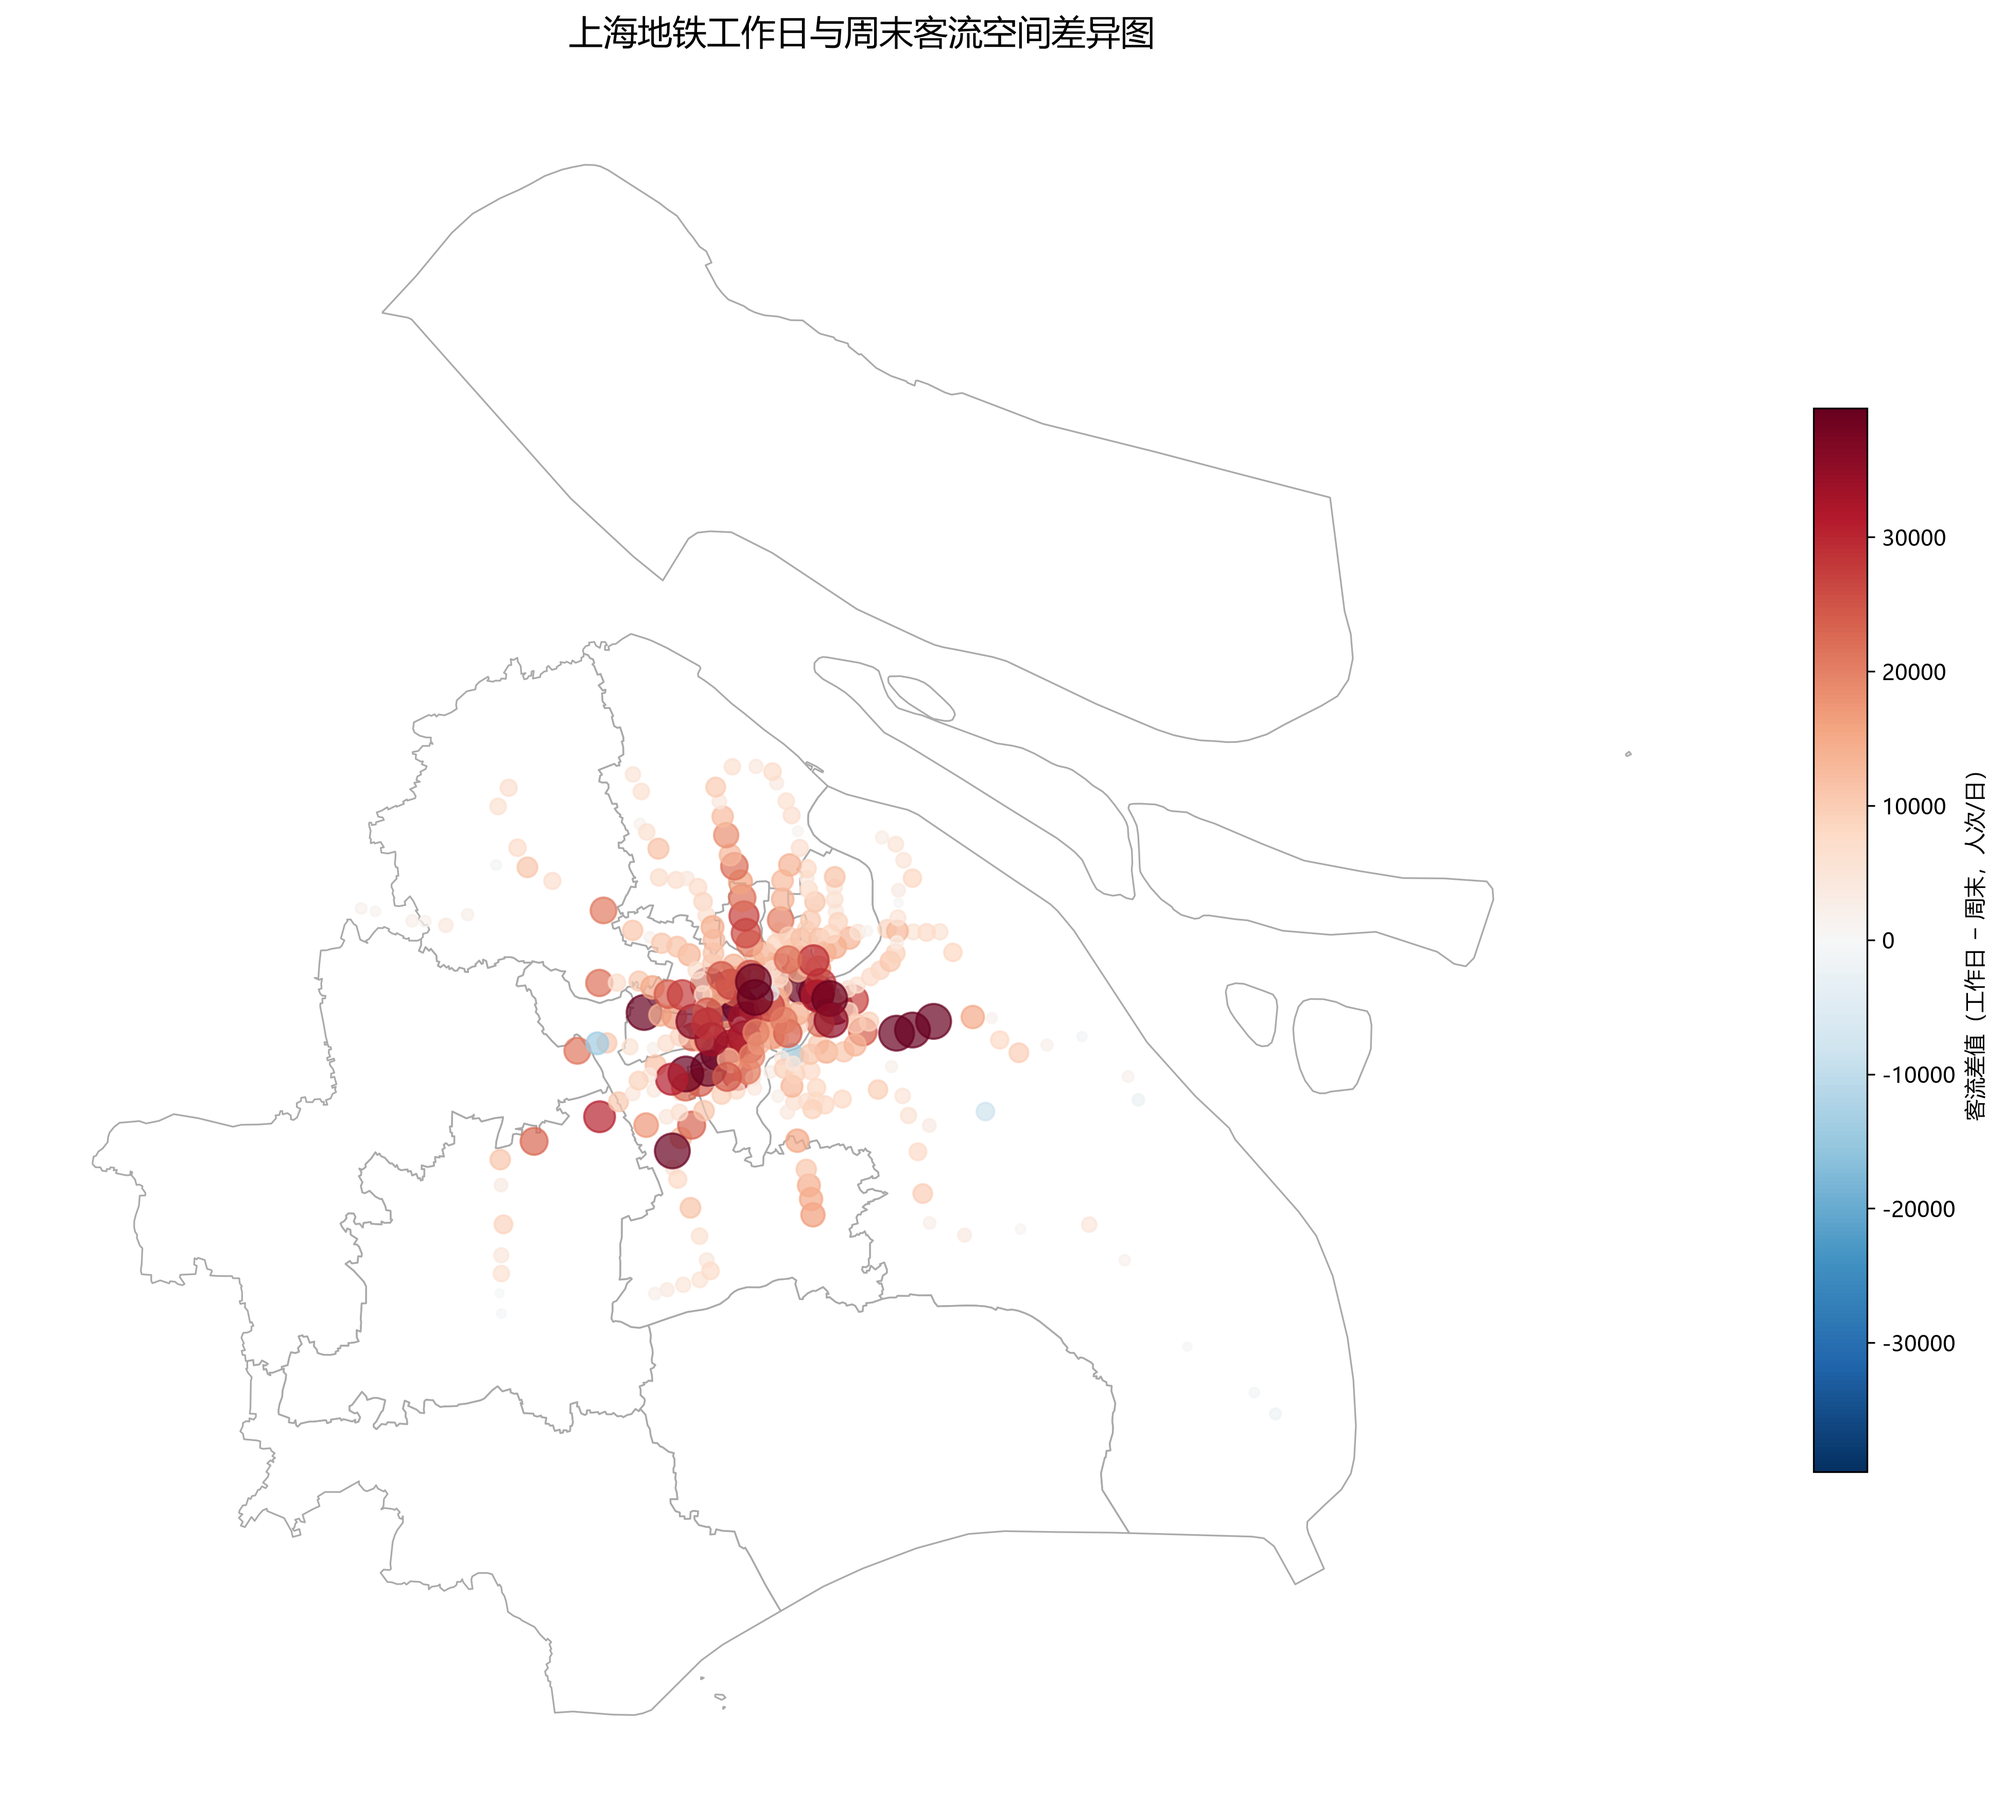
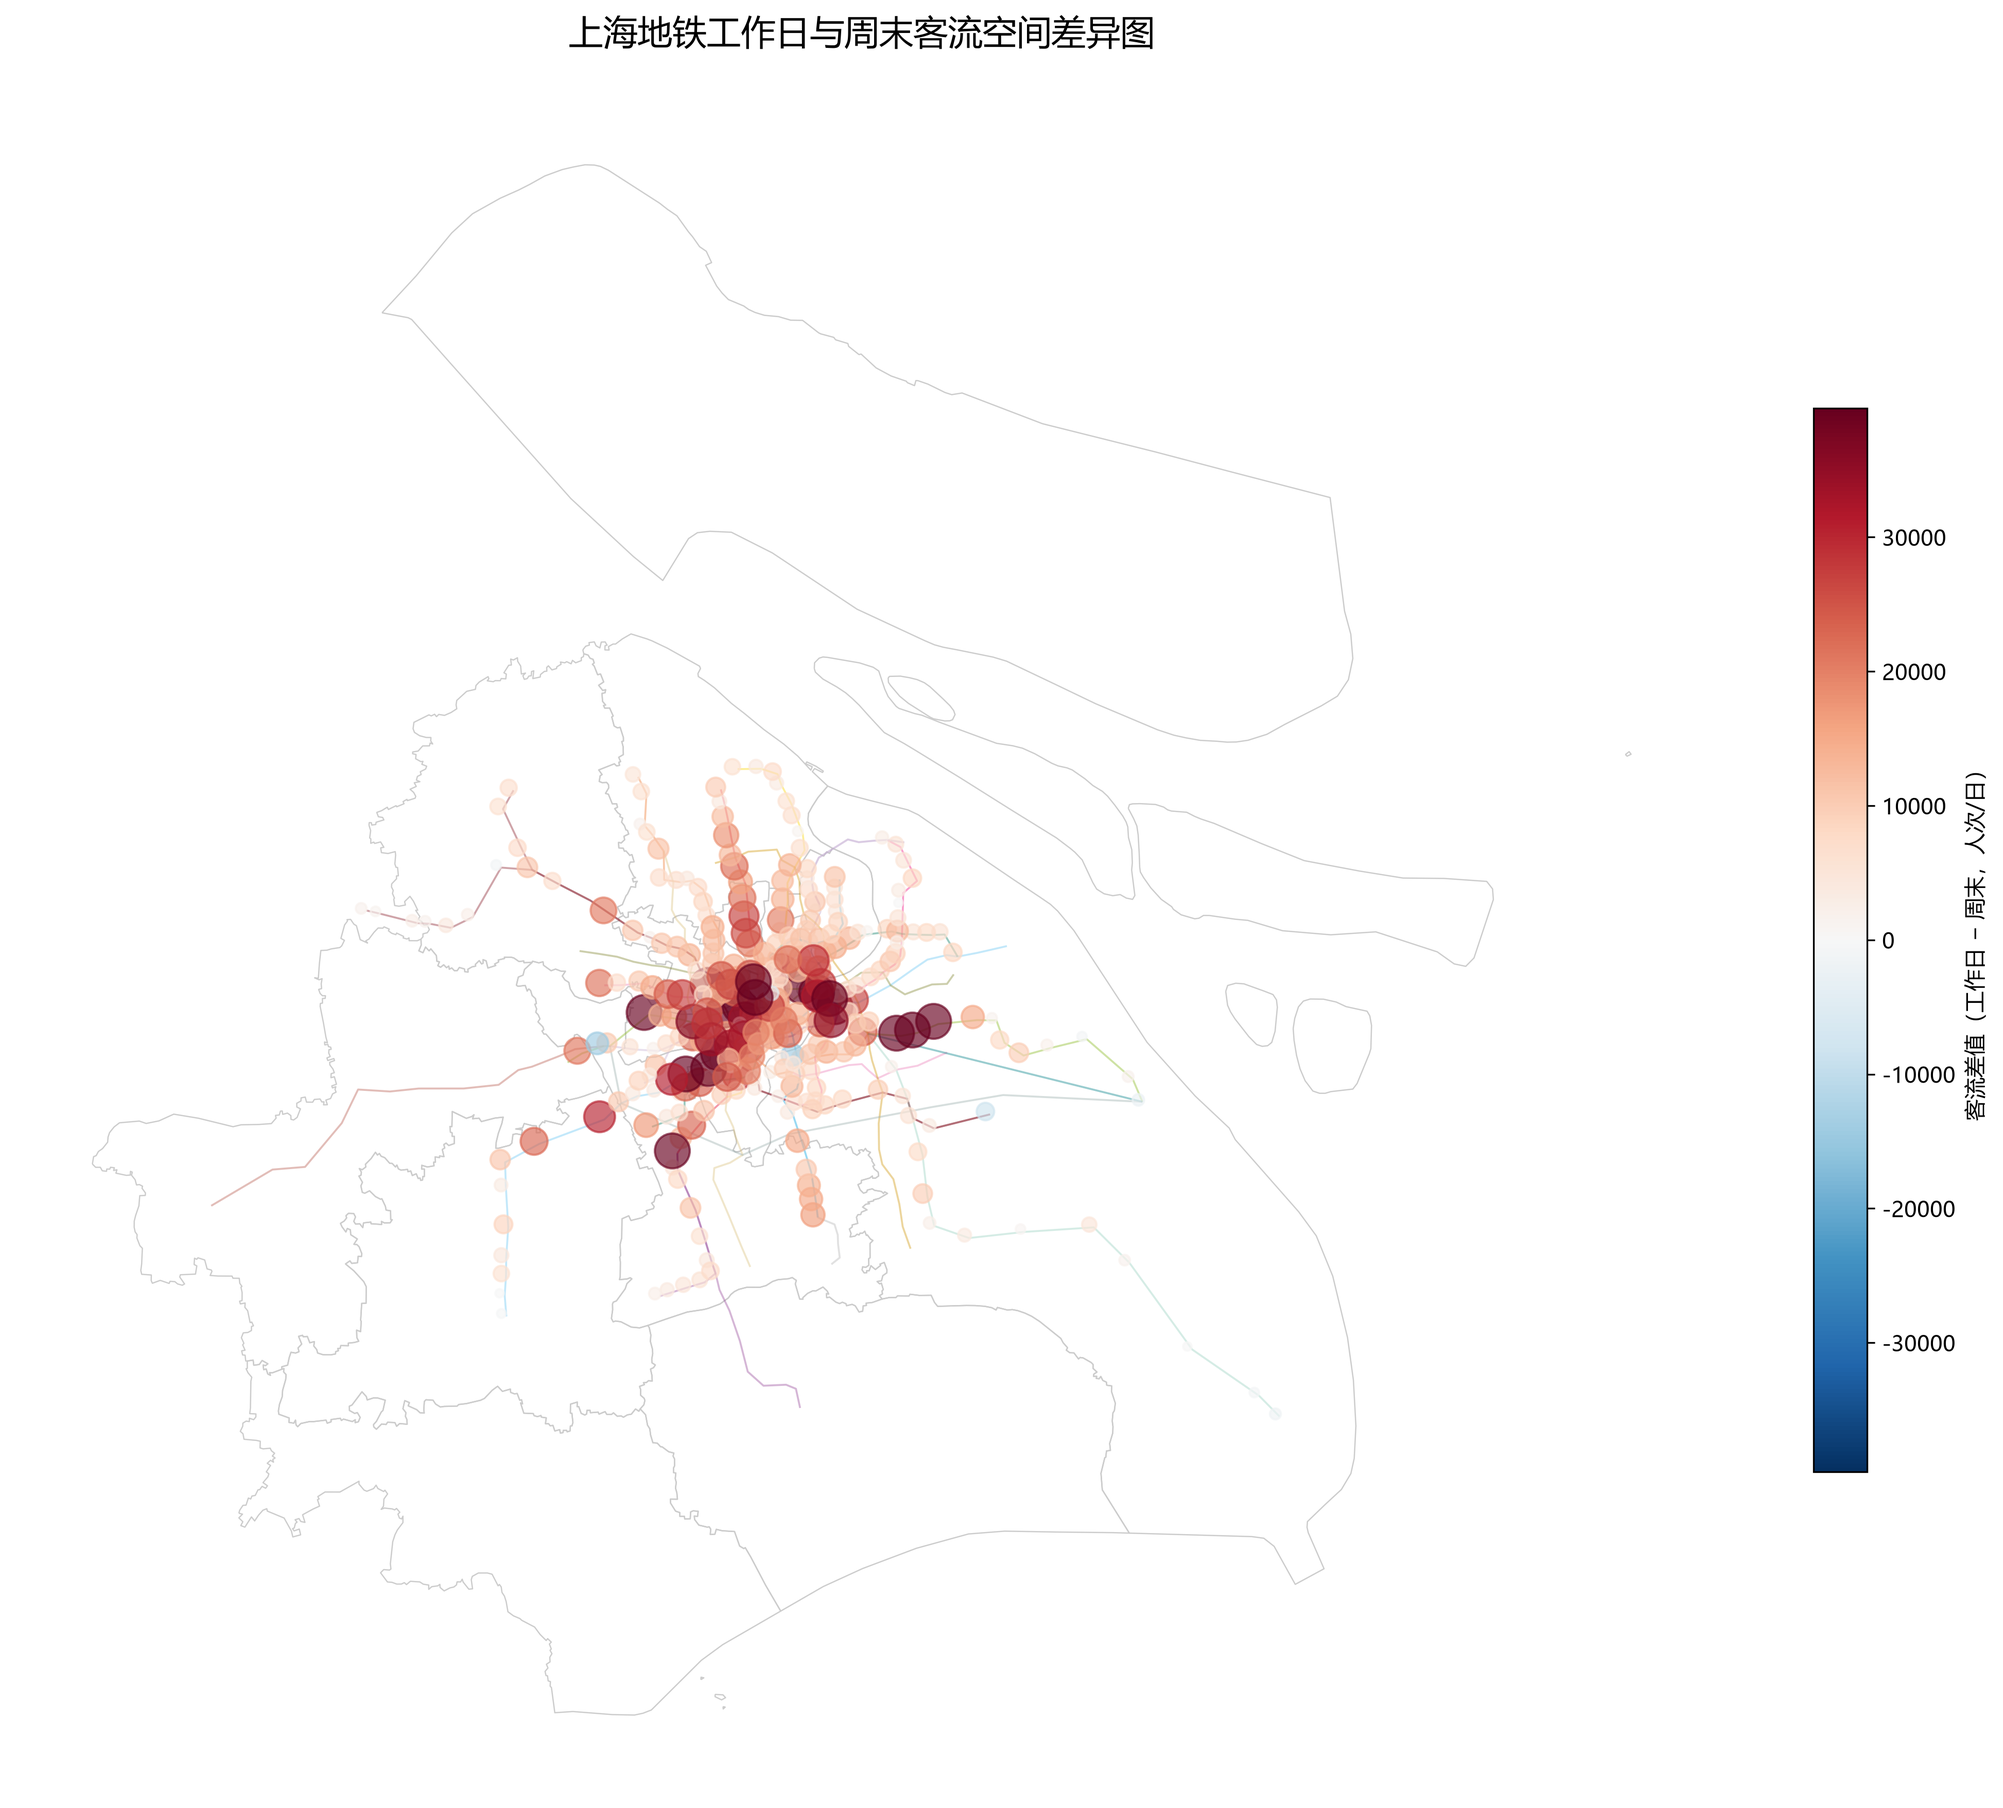
分工3: 所有空间图叠加上海地铁线路网络，图3-1缩小站点避免重叠

diff --git a/code/分工3/04_全时段客流热力图.py b/code/分工3/04_全时段客流热力图.py
@@ -33,29 +33,40 @@ station_geo = gpd.read_file(geo_path).to_crs(epsg=3857)
 dist_path = PROJECT_ROOT / "分工3_空间可视化" / "空间数据" / "shanghai_districts.geojson"
 districts = gpd.read_file(dist_path).to_crs(epsg=3857)
 
+# 读取上海地铁线路
+metro_path = PROJECT_ROOT / "分工3_空间可视化" / "空间数据" / "shanghai_metro_lines.geojson"
+metro_lines = gpd.read_file(metro_path).to_crs(epsg=3857)
+
 # 分位数映射点大小（避免魔法数字，极值裁剪到95分位）
 flow = station_geo["全天总客流"].values
 p95 = np.percentile(flow, 95)
 size_clipped = np.clip(flow, None, p95)
-markersize = 5 + (size_clipped / p95) * 80  # 5~85 范围，避免重叠糊在一起
+markersize = 2 + (size_clipped / p95) * 33  # 2~35范围，缩小避免重叠
 
 fig, ax = plt.subplots(figsize=(14, 12), dpi=300)
 ax.set_facecolor("white")
 
 # 绘制行政区边界（简洁底图）
-districts.boundary.plot(ax=ax, color="#aaaaaa", linewidth=0.8, zorder=1)
+districts.boundary.plot(ax=ax, color="#cccccc", linewidth=0.6, zorder=1)
+
+# 绘制地铁线路（官方颜色，细线，半透明）
+for _, line in metro_lines.iterrows():
+    line_color = line["color"] if line["color"] else "#999999"
+    gpd.GeoSeries([line.geometry]).plot(ax=ax, color=line_color, linewidth=1.0, alpha=0.45, zorder=2)
 
 station_geo.plot(
     ax=ax, column="全天总客流", cmap=CMAP_FLOW,
-    markersize=markersize, alpha=0.6,
+    markersize=markersize, alpha=0.55,
     legend=True, legend_kwds={"shrink": 0.6, "label": "全天客流量（人次）"},
-    zorder=2
+    zorder=3
 )
 
-# 标注TOP10站点
-top10 = station_geo.sort_values("全天总客流", ascending=False).head(10)
-for _, row in top10.iterrows():
-    ax.text(row.geometry.x, row.geometry.y, row["name"], fontsize=9, ha="left", va="bottom", zorder=3)
+# 标注TOP5站点（避免重叠）
+top5 = station_geo.sort_values("全天总客流", ascending=False).head(5)
+for _, row in top5.iterrows():
+    ax.text(row.geometry.x, row.geometry.y, row["name"], fontsize=10, ha="left", va="bottom",
+            fontweight="bold", zorder=4,
+            bbox=dict(boxstyle="round,pad=0.2", facecolor="white", alpha=0.8, edgecolor="none"))
 
 ax.set_title("上海地铁全时段站点客流分布图（2017年5–8月）", fontsize=16, pad=20)
 ax.set_axis_off()

diff --git a/code/分工3/00_获取地铁线路数据.py b/code/分工3/00_获取地铁线路数据.py
@@ -1,0 +1,58 @@
+# -*- coding: utf-8 -*-
+"""从高德地图公开API获取上海地铁线路数据，生成GeoJSON
+输出: 分工3_空间可视化/空间数据/shanghai_metro_lines.geojson
+"""
+import sys
+from pathlib import Path
+sys.path.insert(0, str(Path(__file__).resolve().parent.parent))
+from common import PROJECT_ROOT
+
+import json
+import urllib.request
+import geopandas as gpd
+from shapely.geometry import LineString
+
+OUT_DIR = PROJECT_ROOT / "分工3_空间可视化" / "空间数据"
+OUT_DIR.mkdir(parents=True, exist_ok=True)
+OUT_FILE = OUT_DIR / "shanghai_metro_lines.geojson"
+
+# 高德地图公开地铁数据API（上海城市代码3100）
+url = "https://map.amap.com/service/subway?_=1757280000000&srhdata=3100_drw_shanghai.json"
+print(f"正在获取上海地铁线路数据: {url}")
+
+req = urllib.request.Request(url, headers={"User-Agent": "Mozilla/5.0"})
+with urllib.request.urlopen(req, timeout=30) as resp:
+    data = json.loads(resp.read().decode("utf-8"))
+
+# 解析线路数据
+lines = []
+for line_data in data.get("l", []):
+    line_name = line_data.get("ln", "未知线路")
+    line_color = "#" + line_data.get("cl", "888888")
+    # 站点序列
+    stations = line_data.get("st", [])
+    coords = []
+    for st in stations:
+        # 高德坐标格式: "lon,lat"
+        sl = st.get("sl", "")
+        if sl:
+            parts = sl.split(",")
+            if len(parts) == 2:
+                lon, lat = float(parts[0]), float(parts[1])
+                coords.append((lon, lat))
+    
+    if len(coords) >= 2:
+        lines.append({
+            "line_name": line_name,
+            "color": line_color,
+            "n_stations": len(coords),
+            "geometry": LineString(coords)
+        })
+    print(f"  {line_name}: {len(coords)}站, 颜色{line_color}")
+
+print(f"\n共获取 {len(lines)} 条线路")
+
+# 生成GeoDataFrame并保存
+gdf = gpd.GeoDataFrame(lines, geometry="geometry", crs="EPSG:4326")
+gdf.to_file(OUT_FILE, driver="GeoJSON", encoding="utf-8")
+print(f"已保存: {OUT_FILE}")

diff --git a/code/分工3/05_分时段对比图.py b/code/分工3/05_分时段对比图.py
@@ -31,6 +31,10 @@ station_geo = gpd.read_file(geo_path).to_crs(epsg=3857)
 dist_path = PROJECT_ROOT / "分工3_空间可视化" / "空间数据" / "shanghai_districts.geojson"
 districts = gpd.read_file(dist_path).to_crs(epsg=3857)
 
+# 上海地铁线路
+metro_path = PROJECT_ROOT / "分工3_空间可视化" / "空间数据" / "shanghai_metro_lines.geojson"
+metro_lines = gpd.read_file(metro_path).to_crs(epsg=3857)
+
 periods = [
     ("早高峰客流", "早高峰（7:00–9:00）"),
     ("晚高峰客流", "晚高峰（17:00–19:00）"),
@@ -49,11 +53,15 @@ axes = axes.flatten()
 for i, (col, title) in enumerate(periods):
     ax = axes[i]
     ax.set_facecolor("white")
-    districts.boundary.plot(ax=ax, color="#aaaaaa", linewidth=0.6, zorder=1)
+    districts.boundary.plot(ax=ax, color="#cccccc", linewidth=0.5, zorder=1)
+    # 地铁线路
+    for _, line in metro_lines.iterrows():
+        line_color = line["color"] if line["color"] else "#999999"
+        gpd.GeoSeries([line.geometry]).plot(ax=ax, color=line_color, linewidth=0.8, alpha=0.4, zorder=2)
     vals = station_geo[col].values
     size_clipped = np.clip(vals, None, np.percentile(vals, 95))
-    ms = 4 + (size_clipped / np.percentile(vals, 95)) * 60
-    station_geo.plot(ax=ax, column=col, cmap=CMAP_FLOW, markersize=ms, alpha=0.6, vmin=0, vmax=vmax, zorder=2)
+    ms = 2 + (size_clipped / np.percentile(vals, 95)) * 25
+    station_geo.plot(ax=ax, column=col, cmap=CMAP_FLOW, markersize=ms, alpha=0.55, vmin=0, vmax=vmax, zorder=3)
     ax.set_title(title, fontsize=14)
     ax.set_axis_off()
 

diff --git a/code/分工3/06_工作日周末差异.py b/code/分工3/06_工作日周末差异.py
@@ -31,6 +31,10 @@ station_geo = gpd.read_file(geo_path).to_crs(epsg=3857)
 dist_path = PROJECT_ROOT / "分工3_空间可视化" / "空间数据" / "shanghai_districts.geojson"
 districts = gpd.read_file(dist_path).to_crs(epsg=3857)
 
+# 上海地铁线路
+metro_path = PROJECT_ROOT / "分工3_空间可视化" / "空间数据" / "shanghai_metro_lines.geojson"
+metro_lines = gpd.read_file(metro_path).to_crs(epsg=3857)
+
 station_geo["flow_diff"] = station_geo["工作日日均"] - station_geo["周末日均"]
 
 # 分位数点大小
@@ -44,13 +48,17 @@ vmax_abs = np.percentile(station_geo["flow_diff"].abs(), 95)
 
 fig, ax = plt.subplots(figsize=(14, 12), dpi=300)
 ax.set_facecolor("white")
-districts.boundary.plot(ax=ax, color="#aaaaaa", linewidth=0.8, zorder=1)
+districts.boundary.plot(ax=ax, color="#cccccc", linewidth=0.6, zorder=1)
+# 地铁线路
+for _, line in metro_lines.iterrows():
+    line_color = line["color"] if line["color"] else "#999999"
+    gpd.GeoSeries([line.geometry]).plot(ax=ax, color=line_color, linewidth=0.9, alpha=0.4, zorder=2)
 station_geo.plot(
     ax=ax, column="flow_diff", cmap=CMAP_DIFF,
-    markersize=markersize, alpha=0.7,
+    markersize=markersize, alpha=0.65,
     vmin=-vmax_abs, vmax=vmax_abs,
     legend=True, legend_kwds={"shrink": 0.6, "label": "客流差值（工作日 − 周末，人次/日）"},
-    zorder=2
+    zorder=3
 )
 
 ax.set_title("上海地铁工作日与周末客流空间差异图", fontsize=16, pad=20)

diff --git a/code/分工3/07b_OD可视化优化版.py b/code/分工3/07b_OD可视化优化版.py
@@ -94,12 +94,20 @@ station_geo = gpd.read_file(geo_path).to_crs(epsg=3857)
 dist_path = PROJECT_ROOT / "分工3_空间可视化" / "空间数据" / "shanghai_districts.geojson"
 districts = gpd.read_file(dist_path).to_crs(epsg=3857)
 
+# 上海地铁线路
+metro_path = PROJECT_ROOT / "分工3_空间可视化" / "空间数据" / "shanghai_metro_lines.geojson"
+metro_lines = gpd.read_file(metro_path).to_crs(epsg=3857)
+
 trans = Transformer.from_crs("EPSG:4326", "EPSG:3857", always_xy=True)
 
 top15 = od.head(15).copy()
 fig, ax = plt.subplots(figsize=(14, 12), dpi=300)
 ax.set_facecolor("white")
-districts.boundary.plot(ax=ax, color="#aaaaaa", linewidth=0.8, zorder=1)
+districts.boundary.plot(ax=ax, color="#cccccc", linewidth=0.6, zorder=1)
+# 地铁线路
+for _, line in metro_lines.iterrows():
+    line_color = line["color"] if line["color"] else "#999999"
+    gpd.GeoSeries([line.geometry]).plot(ax=ax, color=line_color, linewidth=0.9, alpha=0.35, zorder=2)
 
 # 线宽分位数映射
 flow_vals = top15["Flow"].values
